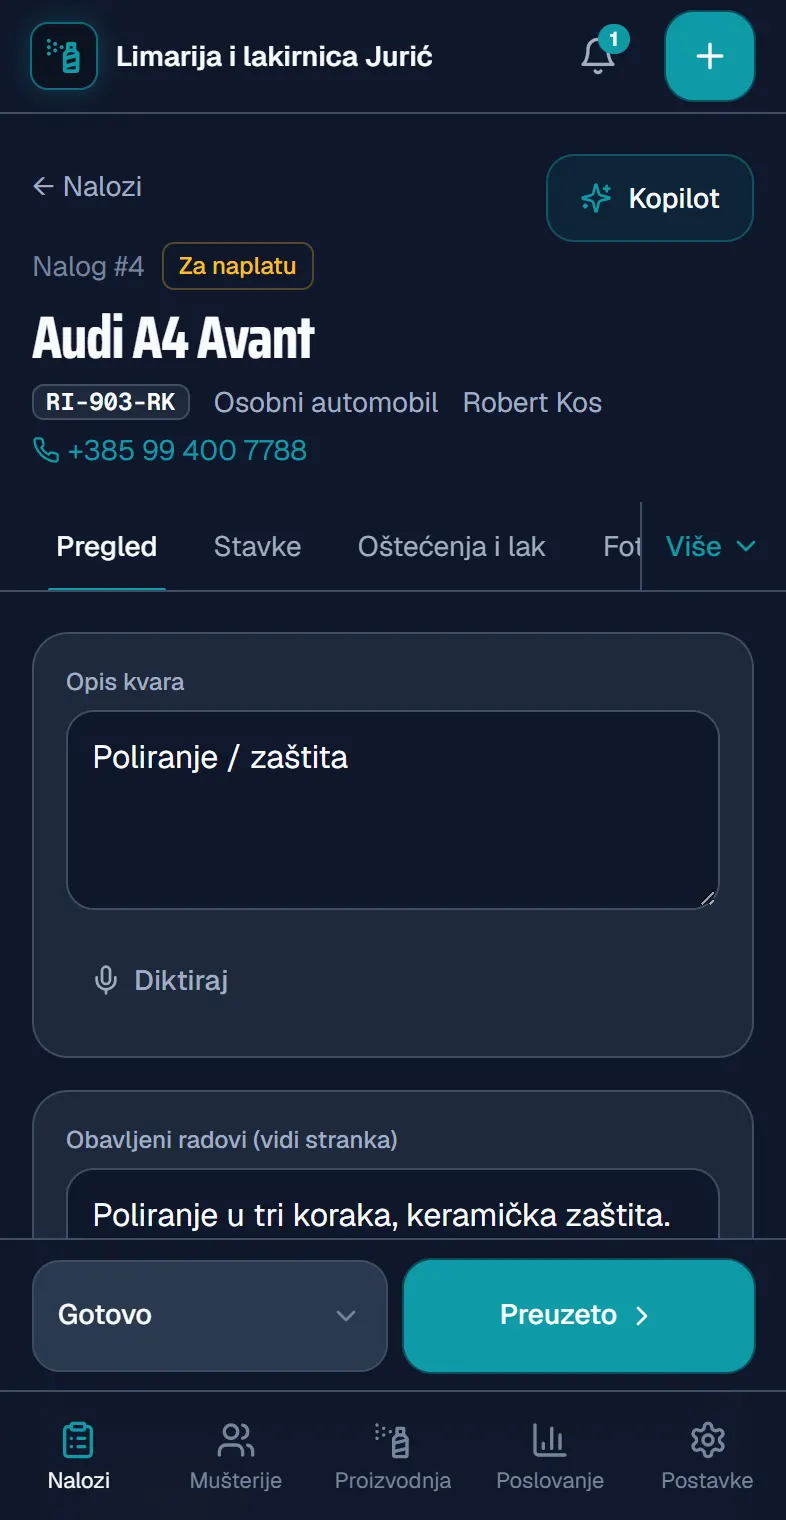
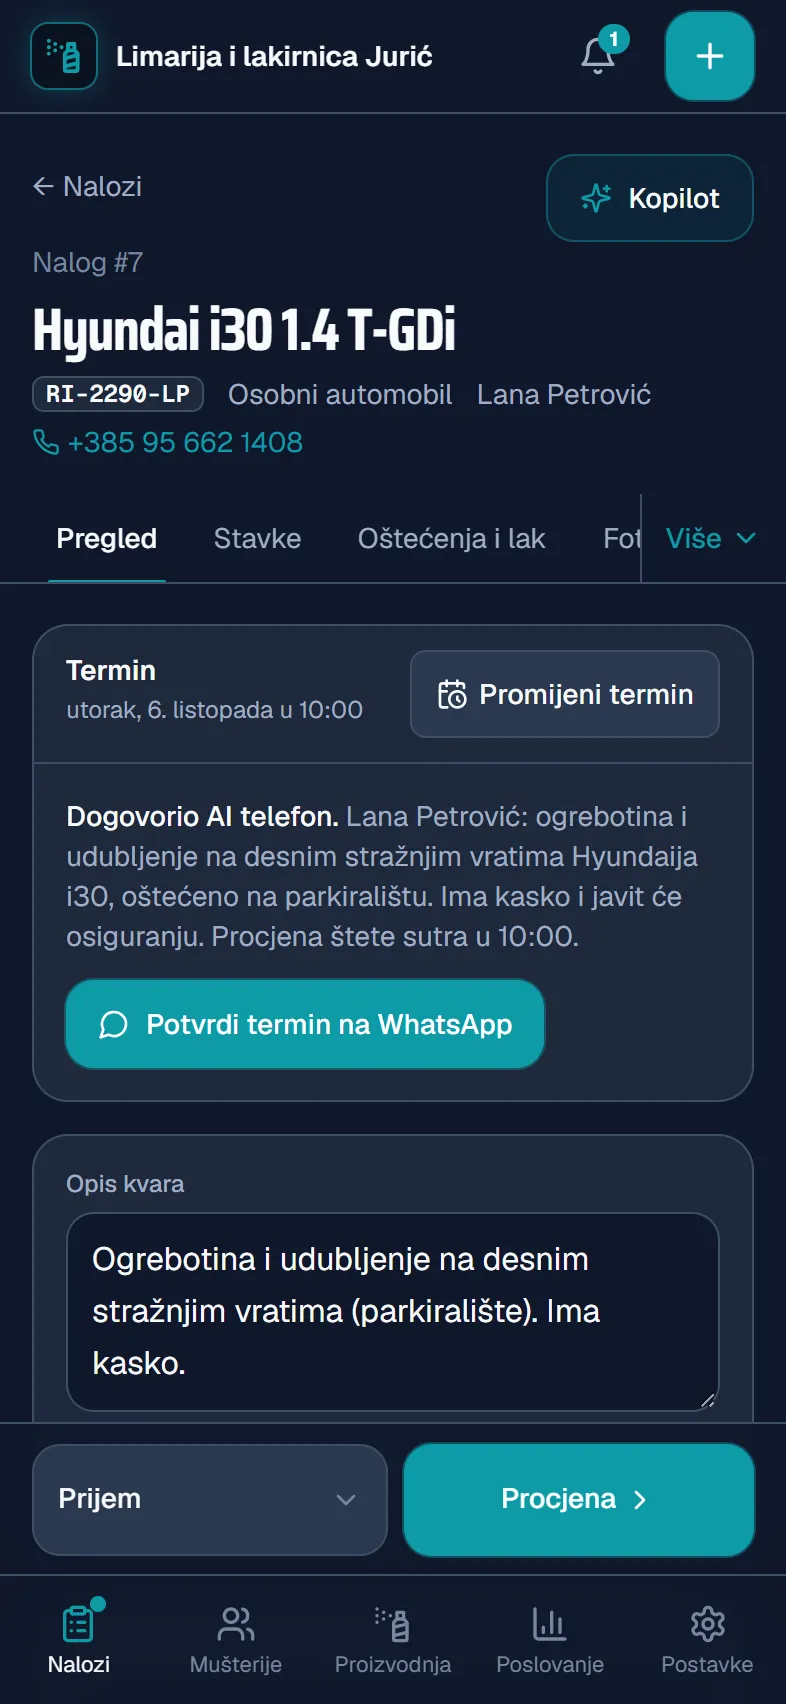
feat: AI-booked job in every demo, new screenshots for all ten trades
- Every demo and sample workshop has one call the AI secretary took,
  following the trade page's "AI tajnik na djelu": the job in Prijem with
  its slot, the call summary and the conversation (a burst pipe with the
  main valve closed, a car stopped on the A1 with the claim number, a
  truck service that must be back on the road by 15:00 …)
- Landing screenshots: that job for each trade (the car lot shows its
  days on the lot and the asking price); the plumber, towing and car lot
  pages get their first screenshots; the unused step shots are gone
- Field jobs show what the caller said above the visit card
- seed.mjs retries a photo upload when the storage API drops a connection

diff --git a/components/job/OverviewTab.tsx b/components/job/OverviewTab.tsx
@@ -38,6 +38,23 @@ export async function OverviewTab({ ctx, job, extras }: { ctx: WorkshopContext; 
   return (
     <div className="grid gap-4 lg:grid-cols-[1fr_320px]">
       <div className="space-y-4">
+        {/* On the field what the caller said comes first, then the visit. */}
+        {field && (call || (confirm && job.source === 'phone')) ? (
+          <Card>
+            <div className="space-y-3 p-4 text-sm">
+              {call ? (
+                <p className="text-muted">
+                  <span className="font-medium text-fg">Dogovorio AI telefon.</span> {call.summary ?? ''}
+                </p>
+              ) : null}
+              {confirm ? (
+                <a href={confirm} target="_blank" rel="noopener noreferrer" className={buttonClass('primary')}>
+                  <MessageCircle className="size-4" /> Potvrdi termin na WhatsApp
+                </a>
+              ) : null}
+            </div>
+          </Card>
+        ) : null}
         {field ? (
           <Card>
             <CardHeader
@@ -83,22 +100,6 @@ export async function OverviewTab({ ctx, job, extras }: { ctx: WorkshopContext; 
                 ) : null}
               </div>
             ) : null}
-          </Card>
-        ) : null}
-        {field && (call || (confirm && job.source === 'phone')) ? (
-          <Card>
-            <div className="space-y-3 p-4 text-sm">
-              {call ? (
-                <p className="text-muted">
-                  <span className="font-medium text-fg">Dogovorio AI telefon.</span> {call.summary ?? ''}
-                </p>
-              ) : null}
-              {confirm ? (
-                <a href={confirm} target="_blank" rel="noopener noreferrer" className={buttonClass('primary')}>
-                  <MessageCircle className="size-4" /> Potvrdi termin na WhatsApp
-                </a>
-              ) : null}
-            </div>
           </Card>
         ) : null}
         <OverviewEditor
